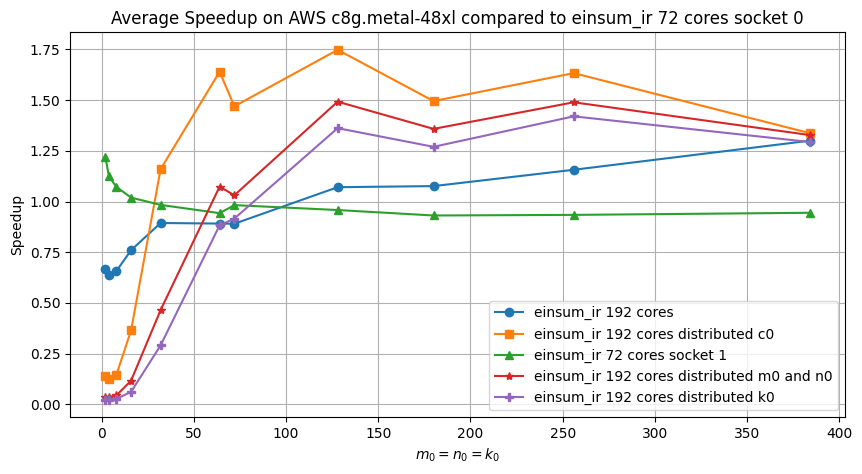
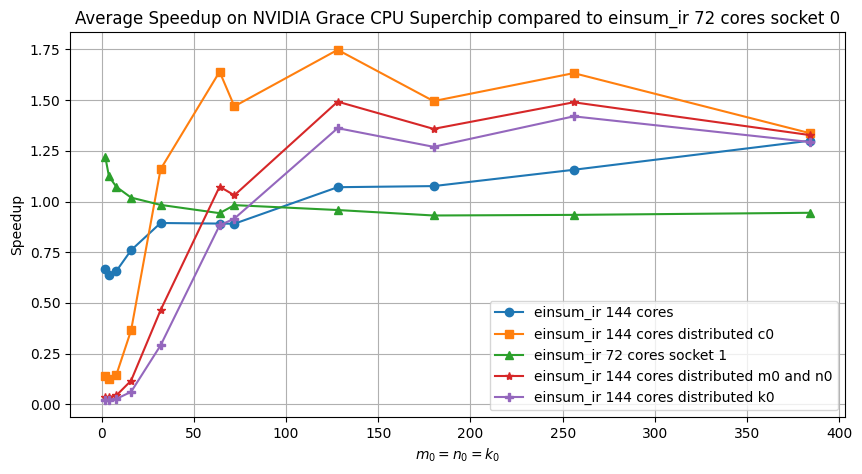
clarified measurment metrics

diff --git a/Bachelor_Arbeit/sections/discussion.tex b/Bachelor_Arbeit/sections/discussion.tex
@@ -14,6 +14,7 @@ All programs were compiled and executed with \texttt{g++} and \texttt{MPICH}.
 \textbf{Measurements.}
 All measurements show the average result of 10 contractions for each size.
 I used Python Matplotlib\cite{matplotlib} to visualize the results.
+The JIT Compilation time of \texttt{einsum\_ir} is included in the measurements.
 
 
 \subsection{Distributed einsum\_ir Performance}
@@ -25,6 +26,7 @@ I used Python Matplotlib\cite{matplotlib} to visualize the results.
     Performance of \texttt{einsum\_ir} distributed c algorithm and the master worker algorithm on a dual socket NVIDIA Grace CPU Superchip.
     The contraction is $c_0m_0k_0k_1m_1, c_0n_0k_0n_0n_1 \rightarrow c_0m_0n_0n_1m_1$ with $|c_0|=2$, $|m_0|=|n_0|=|k_0|$ and $|m_1|=|n_1|=|k_1|=70$.
     Grace has 72 cores per NUMA domain.
+    JIT compilation times of \texttt{einsum\_ir} are included in the measurement.
     }
   \label{fig:master_worker_perf}
 \end{figure}
@@ -61,6 +63,7 @@ It also places fewer restrictions on the contraction itself as the c dimensions 
     Tested on a dual socket NVIDIA Grace CPU Superchip (a) and on a dual socket g8c.metal-48xl Graviton AWS instance (b).
     The contraction is $m_0c_0k_0k_1m_1, n_0c_0k_0n_0n_1 \rightarrow m_0n_0c_0n_1m_1$ with $|c_0|=2$, $|m_0|=|n_0|=|k_0|$ and $|m_1|=|n_1|=|k_1|=70\text{ on Grace and } 94\text{ on Graviton}$.
     Grace has 72 cores per NUMA domain; Graviton has 96.
+    JIT compilation times of \texttt{einsum\_ir} are included in the measurement.
     }
   \label{fig:einsum_ir_perf}
 \end{figure}
@@ -70,15 +73,14 @@ For that we will look at the results in Figure \ref{fig:einsum_ir_perf}.
 For tensors larger than $|m_0|=|n_0|=|k_0|=128$ we see significant performance improvements of the new distributed memory algorithms over the base shared memory implementation on both Grace and Graviton, except for $|m_0|=|n_0|=|k_0|=384$ on Grace where \texttt{einsum\_ir} matches the distributed performance.
 We also note that for small tensors the distribution harms the performance, which suggests that small enough tensors should be locally contracted on only one process and then the results get distributed.
 We also observe that in general the distributed c algorithm performs significantly better than both the distributed m and n and the distributed k algorithm, which are quite close in performance to each other with the distributed k one being a bit worse.
-This is expected since the distributed c algorithm is the only one of the three algorithms to not have any communication happening and thus never having to run idle waiting for new data and no synchronization overheads, enabling near perfect scaling for appropriate tensor sizes on Graviton.
+This is expected since the distributed c algorithm is the only one of the three algorithms to not have any communication happening and thus never having to run idle waiting for new data and has no synchronization overheads.
 The k algorithm is likely slightly slower than the m and n one, since it has double the amount of steps and with that also double the amount of synchronization happening.
 
-
-I should note that the second socket on Grace performs about 5\% worse than the first socket.
-I am not sure what causes this, but I should also note that in an earlier measurement all algorithms performed significantly worse on Grace.
-The difference between those first measurements and the final ones were mainly length.
-The first measurements comprised 100 runs for each contraction for all sizes $|m_0|=|n_0|=|k_0|=2,4,...,128$, which made the test runs significantly longer, taking multiple hours each.
-One hypothesis for the worse performance would be bad cooling on specifically Grace's second socket.
+It is also shown that the second socket on Grace performs about 5\% worse than the first socket.
+I am not sure what causes this, but in an earlier measurement all algorithms performed significantly worse on Grace as well, even showing negative speedups in the m and n and the k algorithm.
+The difference between those first measurements and the final ones were mainly their runtime.
+The first measurements comprised 100 runs for each contraction for all sizes $|m_0|=|n_0|=|k_0|=2,4,...,128$, which made the tests run significantly longer, taking multiple hours per algorithm.
+One hypothesis to explain the performance drop would be bad cooling on specifically Grace's second socket.
 The inclusion of the AWS Graviton instance should show that the algorithms perform well and that the bad initial performance on the Grace server was an outlier.
 
 

diff --git a/Bachelor_Arbeit/sections/2NodesMasterWorker.tex b/Bachelor_Arbeit/sections/2NodesMasterWorker.tex
@@ -8,13 +8,23 @@
     Performance of einsum\_ir on an Nvidia Grace CPU Superchip.
     Grace consists of two 72-core CPUs connected via NVLink.
     The contraction used is $m_0c_0k_0k_1m_1, n_0c_0k_0n_0n_1 \rightarrow m_0n_0c_0n_1m_1$ with $|c_0|=2$, $|m_0|=|n_0|=|k_0|$ and $|m_1|=|n_1|=|k_1|=70$.
-  }
+    JIT compilation times of \texttt{einsum\_ir} are included in the measurement.
+    }
   \label{fig:perf_threads}
 \end{figure}
 
 \texttt{einsum\_ir} is scaling well across a single NUMA domain as seen in Figure \ref{fig:perf_threads} before 72 threads.
 As soon as a second NUMA domain gets included, in the Figure \ref{fig:perf_threads} after 72 threads, the performance drops significantly.
 Even at 144 threads the performance is only improved by 24\%.
+
+%TODO: NEW BLOCK, THINK BEFORE SUBMITTING THIS
+Before thinking about individual algorithms we should first think about which type of parallelism is appropriate.
+There are three popular parallelism models in machine learning, being data parallelism, pipeline parallelism and tensor parallelism \cite{megatronLM}.
+Data parallelism cannot be applied to individual einsum trees and is specific to the machine learning application.
+Between the remaining pipeline and tensor parallelism I decided to implement the latter.
+Tensor parallelism is more suited towards scaling within a multi socket system as the main drawback, higher communication requirements, are lessened by the faster interconnect speeds between sockets compared to network latencies.
+%TODO: nochmal drüber lesen, sobald ich wieder wach genug bin!
+
 
 As a first algorithm we will think of a master worker architecture to improve performance across NUMA domains.
 Since the main hardware target were dual socket servers, like the Nvidia Grace CPU Superchip, we will restrict our algorithm to two processes.

diff --git a/Bachelor_Arbeit/data/visualize_10_grace.py b/Bachelor_Arbeit/data/visualize_10_grace.py
@@ -58,15 +58,15 @@ plt.title("Average Performance on NVIDIA Grace CPU Superchip")
 plt.savefig("gflops_grace.png", pad_inches=0.1, bbox_inches='tight')
 
 plt.figure(figsize=(10, 5))
-plt.plot(size_1_arr, [new/base for new, base in zip(gflops_144_arr, gflops_72_0_arr)], '-o', label="einsum_ir 192 cores")
-plt.plot(size_1_arr, [new/base for new, base in zip(gflops_mpi_c, gflops_72_0_arr)], '-s', label="einsum_ir 192 cores distributed c0")
+plt.plot(size_1_arr, [new/base for new, base in zip(gflops_144_arr, gflops_72_0_arr)], '-o', label="einsum_ir 144 cores")
+plt.plot(size_1_arr, [new/base for new, base in zip(gflops_mpi_c, gflops_72_0_arr)], '-s', label="einsum_ir 144 cores distributed c0")
 plt.plot(size_1_arr, [new/base for new, base in zip(gflops_72_1_arr, gflops_72_0_arr)], '-^', label="einsum_ir 72 cores socket 1")
-plt.plot(size_1_arr, [new/base for new, base in zip(gflops_mpi_m_n, gflops_72_0_arr)], '-*', label="einsum_ir 192 cores distributed m0 and n0")
-plt.plot(size_1_arr, [new/base for new, base in zip(gflops_mpi_k, gflops_72_0_arr)], '-P', label="einsum_ir 192 cores distributed k0")
+plt.plot(size_1_arr, [new/base for new, base in zip(gflops_mpi_m_n, gflops_72_0_arr)], '-*', label="einsum_ir 144 cores distributed m0 and n0")
+plt.plot(size_1_arr, [new/base for new, base in zip(gflops_mpi_k, gflops_72_0_arr)], '-P', label="einsum_ir 144 cores distributed k0")
 plt.grid(axis="both")
 
 plt.xlabel("$m_0 = n_0 = k_0$")
 plt.ylabel("Speedup")
 plt.legend()
-plt.title("Average Speedup on AWS c8g.metal-48xl compared to einsum_ir 72 cores socket 0")
+plt.title("Average Speedup on NVIDIA Grace CPU Superchip compared to einsum_ir 72 cores socket 0")
 plt.savefig("speedup_grace.png", pad_inches=0.1, bbox_inches='tight')

diff --git a/Bachelor_Arbeit/sections/nNodes.tex b/Bachelor_Arbeit/sections/nNodes.tex
@@ -110,8 +110,13 @@ This is the first algorithm we will employ a ringlike communication scheme.
 As with the master worker algorithm each process employs a dedicated communication thread.
 This simply means that each process $i$ can only communicate with process $i-1$, called previous process, and process $i+1$, called next process.
 Each process $i$ starts by contracting its local chunks $A_i$ and $B_i$ to calculate $C_{i,i}$.
-Simultaneously each process sends its chunk $B_i$ to the previous process and receives the chunk $B_{i+1}$ from the next process.
+Simultaneously each process sends its chunk $B_i$ to the previous process and receives the chunk $B_{i+1}$ from the next process, employing additional memory in the size of another chunk of $B$.
 This repeats $p$ times after which all chunks of $C_{i}$ are calculated on each process $i$ and get concatenated to $C_i$.
+
+In the implementation I omitted the final communication of $B$ chunks, since I assumed that the input tensors would not need to be reused.
+In the case of no reuse, this could slightly speed up the algorithm.
+This assumption no longer holds true if the input tensors need to be used multiple times, such as in inference workloads.
+If that was the case it would also be necessary to copy the final chunk to the input tensor from the additional memory, should the number of processes be uneven.
 
 In the implementation we can make the final concatenation implicit as long as we contract each chunk $C_{i,j}$ already with the correct strides into the output tensor $C_i$.
 Due to limitations in the binary contraction described in Section \ref{sec:einsum_ir} this is only possibly should each chunk $C_{i,j}$ be contiguous in $C_i$.
